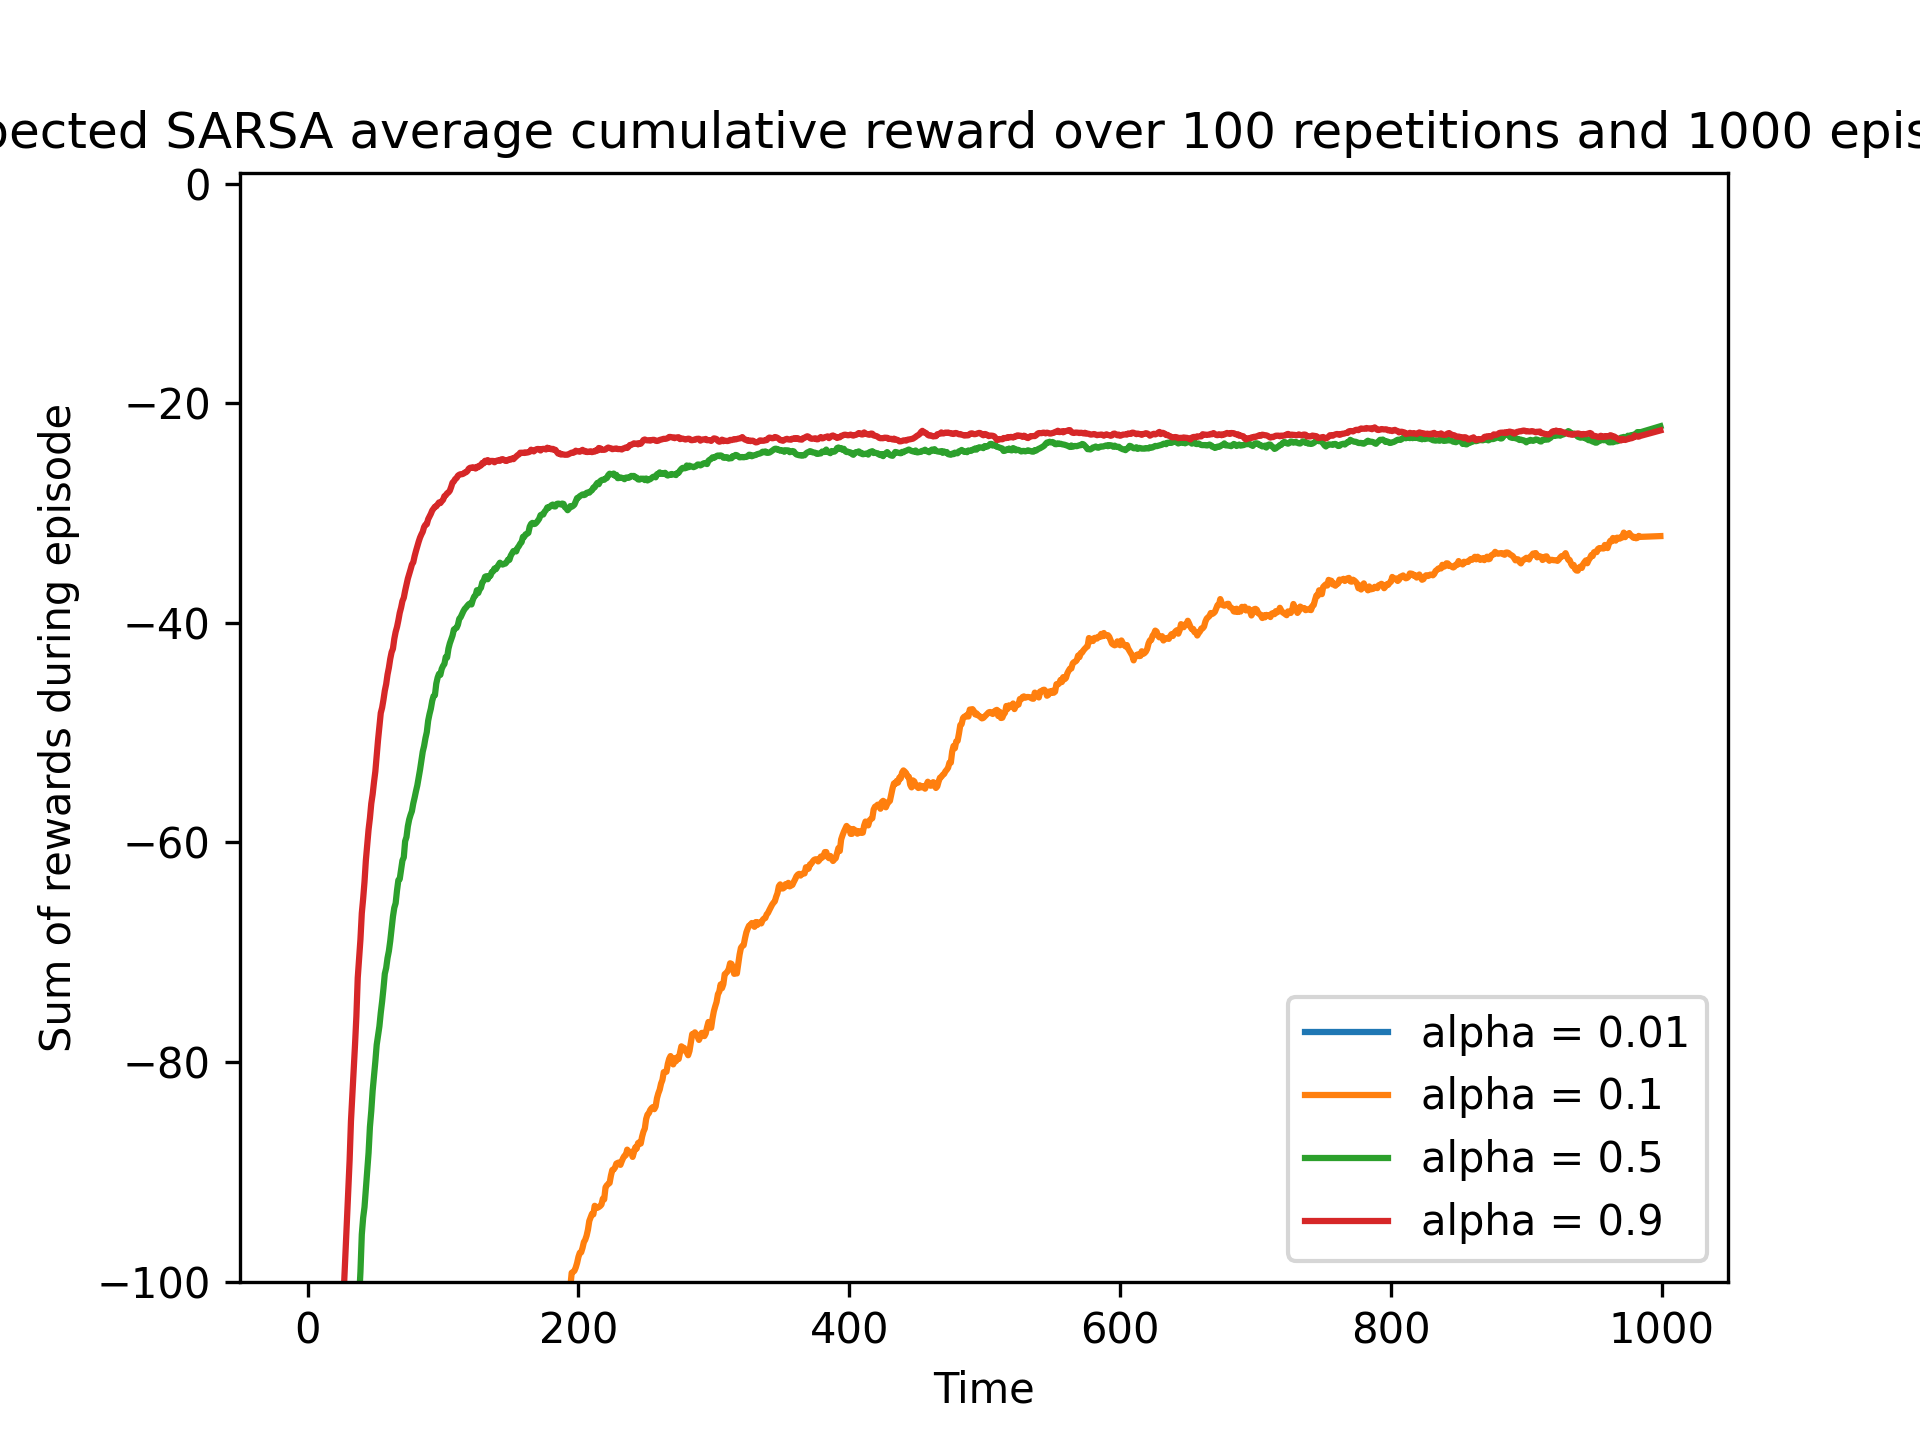
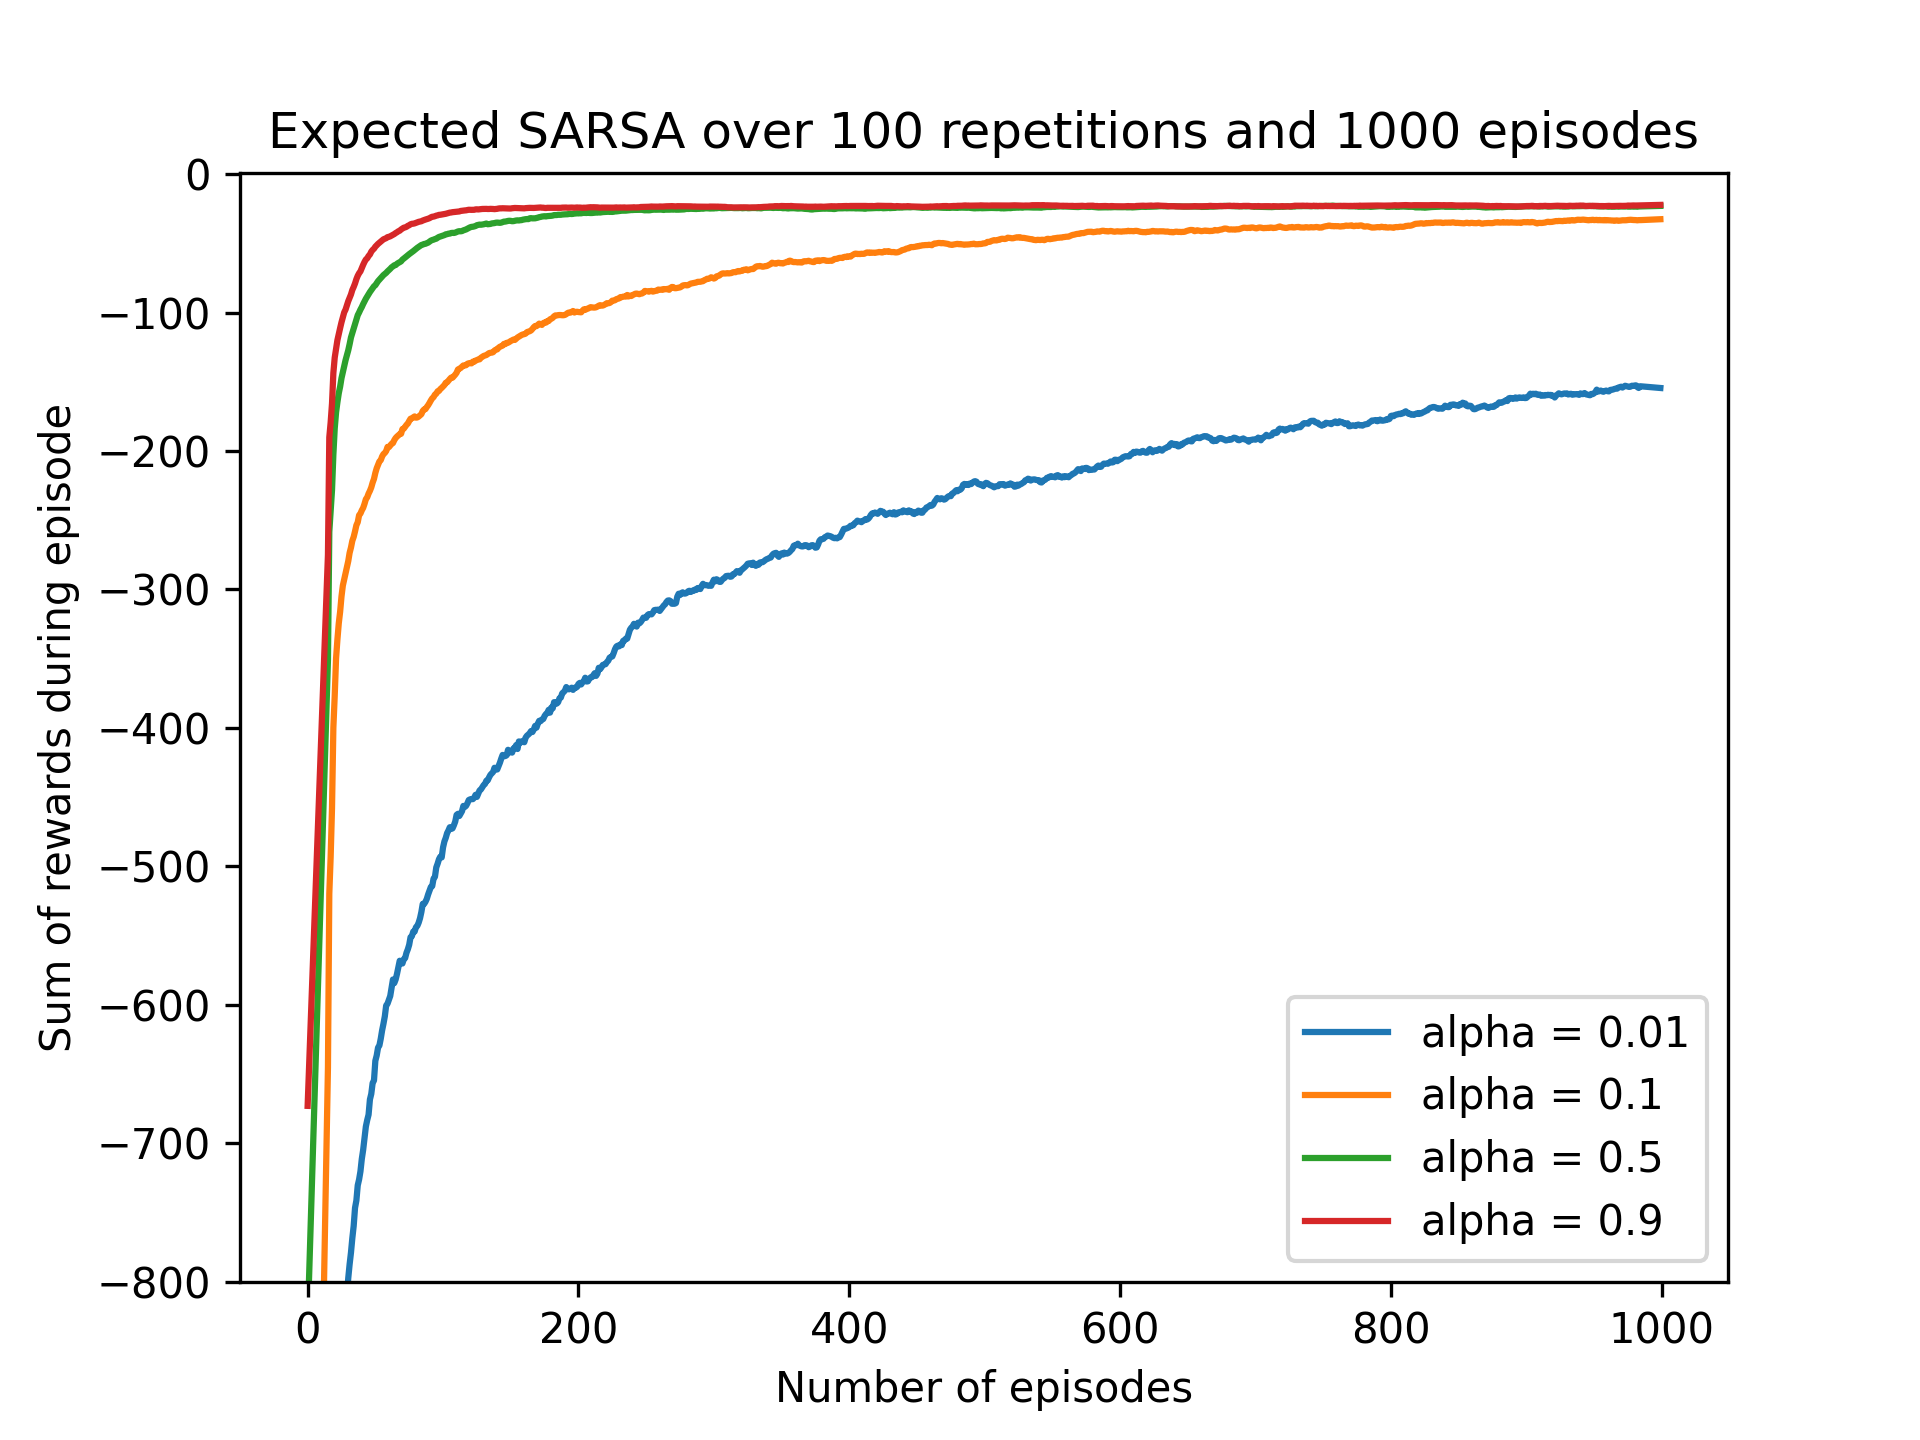
done

diff --git a/ShortCutExperiment.py b/ShortCutExperiment.py
@@ -7,15 +7,16 @@ from Helper import LearningCurvePlot, ComparisonPlot, smooth
 def run_repetitions(n_reps, n_episodes, agent_type):
     # Plot class for Q-Learning
     if agent_type == "qlearning" and n_episodes == 1000:
-        plot = LearningCurvePlot("Q-Learning average cumulative reward over 100 repetitons and 1000 episodes")
+        plot = LearningCurvePlot("Q-Learning over 100 repetitons and 1000 episodes")
     # Plot class for SARSA
     elif agent_type == "sarsa" and n_episodes == 1000:
-        plot = LearningCurvePlot("SARSA average cumulative reward over 100 repetitions and 1000 episodes")
+        plot = LearningCurvePlot("SARSA over 100 repetitions and 1000 episodes")
     # Plot class for Expected SARSA
     elif agent_type == "expectedsarsa" and n_episodes == 1000:
-        plot = LearningCurvePlot("Expected SARSA average cumulative reward over 100 repetitions and 1000 episodes")
-    # Set the y-axis label
+        plot = LearningCurvePlot("Expected SARSA over 100 repetitions and 1000 episodes")
+    # Set the y-axis and x-axis label
     if n_episodes == 1000:
+        plot.ax.set_xlabel('Number of episodes')
         plot.ax.set_ylabel('Sum of rewards during episode')
     # Set the alpha values
     if n_episodes == 10000:
@@ -34,49 +35,64 @@ def run_repetitions(n_reps, n_episodes, agent_type):
             n_states = env.state_size()
             # Set the epsilon
             epsilon = 0.1
-
+            # Create the correct agent
             if agent_type == "qlearning":
-                agent = QLearningAgent(n_actions, n_states, epsilon)
+                learning_agent = QLearningAgent(n_actions, n_states, epsilon)
             elif agent_type == "sarsa":
-                agent = SARSAAgent(n_actions, n_states, epsilon)
+                learning_agent = SARSAAgent(n_actions, n_states, epsilon)
             elif agent_type == "expectedsarsa":
-                agent = ExpectedSARSAAgent(n_actions, n_states, epsilon)
+                learning_agent = ExpectedSARSAAgent(n_actions, n_states, epsilon)
             for episode in range(n_episodes):
+                # Reset the environment
                 env.reset()
+                # Get the current state
                 state = env.state()
+                # If the SARSA agent is used, select an action before the loop
                 if agent_type == "sarsa":
-                    action = agent.select_action(state)
+                    action = learning_agent.select_action(state)
+                # While loop for as long as the environment is not done, and thus the goal is not reached
                 while True:
+                    # Select an action for Q-Learning, which is in the loop
                     if agent_type == "qlearning" or agent_type == "expectedsarsa":
-                        action = agent.select_action(state)
+                        action = learning_agent.select_action(state)
+                    # Take a step in the environment and get the reward and new state from that
                     reward = env.step(action)
                     new_state = env.state()
+                    # Update the Q-values in the Q-value tables for the correct agent
                     if agent_type == "qlearning":
-                        agent.update(new_state, state, action, reward, alpha[l])
+                        learning_agent.update(new_state, state, action, reward, alpha[l])
                     elif agent_type == "sarsa":
-                        new_action = agent.select_action(new_state)
-                        agent.update(state, action, reward, new_state, new_action, alpha[l], gamma=1.0)
+                        # Select a new action for SARSA
+                        new_action = learning_agent.select_action(new_state)
+                        learning_agent.update(state, action, reward, new_state, new_action, alpha[l], gamma=1.0)
+                        # Set the action to the new action (Only for SARSA)
                         action = new_action
                     elif agent_type == "expectedsarsa":
-                        agent.update(state, action, reward, new_state, alpha[l], gamma = 1.0)
+                        learning_agent.update(state, action, reward, new_state, alpha[l], gamma = 1.0)
+                    # Set the state to the new state
                     state = new_state
+                    # add the reward for the plot
                     rewards[episode] += reward
+                    # If the environment is done and the goal is reached, the loop gets broken
                     if env.isdone:
                         break
+        # Giving the correct prints to the correct plots for printing the path of each agent
         if agent_type == "qlearning" and n_episodes == 10000:
             print("Q-learning ShortCut environment 10000 episodes:")
-            print_greedy_actions(agent.Q_value_tab)
+            print_greedy_actions(learning_agent.Q_value_tab)
         elif agent_type == "sarsa"and n_episodes == 10000:
             print("SARSA ShortCut environment 10000 episodes:")
-            print_greedy_actions(agent.Q_value)
+            print_greedy_actions(learning_agent.Q_value)
         elif agent_type == "expectedsarsa" and n_episodes == 10000:
             print("Expected SARSA ShortCut environment 10000 episodes:")
-            print_greedy_actions(agent.Q_value)
+            print_greedy_actions(learning_agent.Q_value)
+        # If the amount of episodes is 1000 (meaning it is not a path plot), then the alpha plot gets added to the plot class
         if n_episodes == 1000:
             average_rewards = rewards / n_reps
             smoothing_window = 31
             average_rewards_smoothed = smooth(average_rewards, smoothing_window)
             plot.add_curve(average_rewards_smoothed, label="alpha = " + str(alpha[l]))
+    # Save the plot with the correct name
     if agent_type == "qlearning" and n_episodes == 1000:
         plot.save("Q-Learning")
     elif agent_type == "sarsa" and n_episodes == 1000:
@@ -90,29 +106,42 @@ def Windyenvironment(n_episodes, agent_type, alpha, epsilon):
     n_actions = env.action_size()
     n_states = env.state_size()
 
+    # Create the correct agent
     if agent_type == "qlearning":
         agent = QLearningAgent(n_actions, n_states, epsilon)
     elif agent_type == "sarsa":
         agent = SARSAAgent(n_actions, n_states, epsilon)
+    # For loop for the amount of episodes
     for episode in range(n_episodes):
+        # Reset the environment and get the current state
         env.reset()
         state = env.state()
+        # If the SARSA agent is used, select an action before the loop
         if agent_type == "sarsa":
             action = agent.select_action(state)
+        # While loop for as long as the environment is not done
         while True:
+            # Select an action for Q-Learning, which is in the loop
             if agent_type == "qlearning":
                 action = agent.select_action(state)
+            # Take a step in the environment and get the reward and new state from that
             reward = env.step(action)
             new_state = env.state()
+            # Update the Q-values in the Q-value tables for the correct agent
             if agent_type == "qlearning":
                 agent.update(new_state, state, action, reward, alpha)
             elif agent_type == "sarsa":
+                # Select a new action for SARSA
                 new_action = agent.select_action(new_state)
                 agent.update(state, action, reward, new_state, new_action, alpha, gamma=1.0)
+                # Set the action to the new action (Only for SARSA)
                 action = new_action
+            # Set the state to the new state
             state = new_state
+            # If the environment is done, the loop gets broken
             if env.isdone:
                 break
+    # Giving the correct prints to the correct plots for printing the path of each agent
     if agent_type == "qlearning":
         print("Q-learning Windy ShortCut environment 10000 episodes:")
         print_greedy_actions(agent.Q_value_tab)
@@ -122,7 +151,7 @@ def Windyenvironment(n_episodes, agent_type, alpha, epsilon):
 
 
 
-
+# Function to print the actions taken by the agent
 def print_greedy_actions(Q):
     greedy_actions = np.argmax(Q, 1).reshape((12,12))
     print_string = np.zeros((12, 12), dtype=str)
@@ -137,28 +166,34 @@ def print_greedy_actions(Q):
     print(print_string.tobytes().decode('utf-8'))
 
 def main():
+    # Set the amount of repetitions and steps for comparing the different alphas
     n_reps = 100
     n_steps = 1000
+    # Set the amount of repetitions and steps for the windy environment and the path plots
     n_steps_windy = 10000
     n_reps_plot = 1
     n_steps_plot = 10000
     alpha_windy = 0.1
     epsilon_windy = 0.1
 
+    # Run Q-learning for the ShortCut environment with a path plot and an alpha comparison plot
     agent_type = "qlearning"
     rewards = run_repetitions(n_reps_plot, n_steps_plot, agent_type)
 
     rewards = run_repetitions(n_reps, n_steps, agent_type)
 
+    # Run SARSA for the ShortCut environment with a path plot and an alpha comparison plot
     agent_type = "sarsa"
     rewards = run_repetitions(n_reps_plot, n_steps_plot, agent_type)
     rewards = run_repetitions(n_reps, n_steps, agent_type)
 
+    # Run Q-learning and SARSA for the Windy environment and the path plot
     agent_type = "qlearning"
     Windyenvironment(n_steps_windy, agent_type, alpha_windy, epsilon_windy)
     agent_type = "sarsa"
     Windyenvironment(n_steps_windy, agent_type, alpha_windy, epsilon_windy)
 
+    # Run Expected SARSA for the ShortCut environment with a path plot and an alpha comparison plot
     agent_type = "expectedsarsa"
     rewards = run_repetitions(n_reps_plot, n_steps_plot, agent_type)
     rewards = run_repetitions(n_reps, n_steps, agent_type)

diff --git a/ShortCutAgents.py b/ShortCutAgents.py
@@ -5,9 +5,11 @@ from ShortCutEnvironment import ShortcutEnvironment as env
 class QLearningAgent(object):
 
     def __init__(self, n_actions, n_states, epsilon):
+        # Initialize the agent with the number of actions, states and epsilon
         self.n_actions = n_actions
         self.n_states = n_states
         self.epsilon = epsilon
+        # Initialize Q-value table
         self.Q_value_tab = np.zeros((n_states, n_actions))
         
     def select_action(self, state):
@@ -31,15 +33,19 @@ class QLearningAgent(object):
         
     def update(self, new_state, state, action, reward, alpha=0.1):
         gamma = 1.0
+        # For the new state, find the maximum Q-value
         multiply = gamma * np.max(self.Q_value_tab[new_state])
+        # Update the Q-value in the Q_value table with the previous Q-value and the TD error
         self.Q_value_tab[state, action] += alpha * (reward + multiply - self.Q_value_tab[state, action])
 
 class SARSAAgent(object):
 
     def __init__(self, n_actions, n_states, epsilon):
+        # Initialize the agent with the number of actions, states and epsilon
         self.n_actions = n_actions
         self.n_states = n_states
         self.epsilon = epsilon
+        # Initialize Q-value table
         self.Q_value = np.zeros((n_states, n_actions))
         
     def select_action(self, state):
@@ -62,17 +68,21 @@ class SARSAAgent(object):
         return a    
         
     def update(self, state, action, reward, next_state, next_action, alpha, gamma=1.0):
+        # Calculate the TD error
         next_Q_value = self.Q_value[next_state, next_action]
         td_error = reward + gamma * next_Q_value - self.Q_value[state, action]
+        # Update the Q-value in the Q_value table with the previous Q-value and the TD error
         self.Q_value[state, action] = self.Q_value[state, action] + alpha * td_error
 
 
 class ExpectedSARSAAgent(object):
 
     def __init__(self, n_actions, n_states, epsilon):
+        # Initialize the agent with the number of actions, states and epsilon
         self.n_actions = n_actions
         self.n_states = n_states
         self.epsilon = epsilon
+        # Initialize the Q-value table
         self.Q_value = np.zeros((n_states, n_actions))
         
     def select_action(self, state):
@@ -95,13 +105,6 @@ class ExpectedSARSAAgent(object):
         return a  
         
     def update(self, state, action, reward, next_state_in_env, alpha, gamma):
-        # exp_next_value = np.sum(self.Q_value[next_state] * (1 - self.epsilon)) + (self.epsilon / self.n_actions) * np.sum(self.Q_value[next_state])
-        # exp_next_value = 0
-        # for a in range(self.n_actions):
-        #     if a == np.argmax(self.Q_value[state,:]):
-        #         exp_next_value += self.Q_value[state, a] * self.epsilon
-        #     exp_next_value += self.Q_value[state, a] / self.n_actions
-
         # Calculate probability of selecting a non-optimal action
         non_optimal = self.epsilon / self.n_actions
         # Setting all actions to non-optimal probability

diff --git a/Helper.py b/Helper.py
@@ -18,7 +18,7 @@ class LearningCurvePlot:
         self.fig,self.ax = plt.subplots()
         self.ax.set_xlabel('Time')
         self.ax.set_ylabel('Reward')      
-        self.ax.set_ylim([-100,1.0])
+        self.ax.set_ylim([-800,1.0])
         if title is not None:
             self.ax.set_title(title)
         
